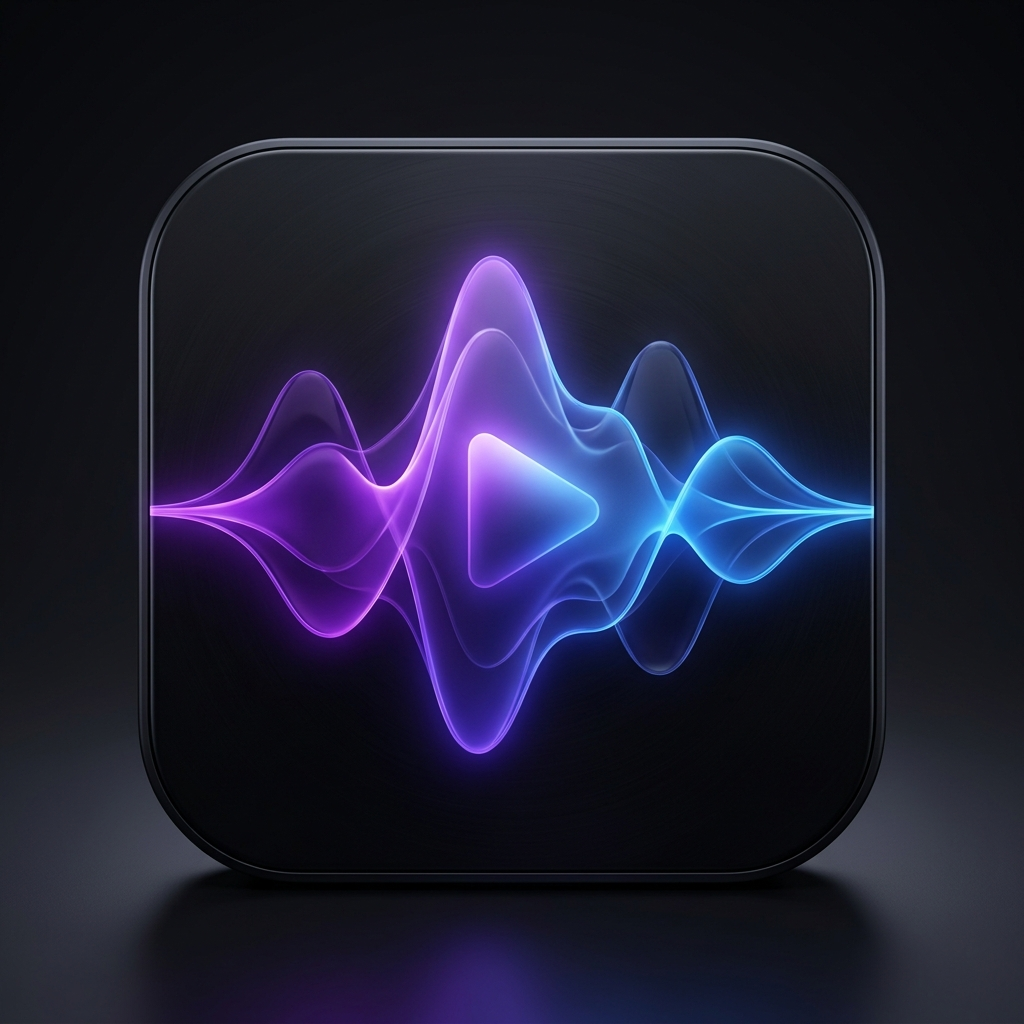
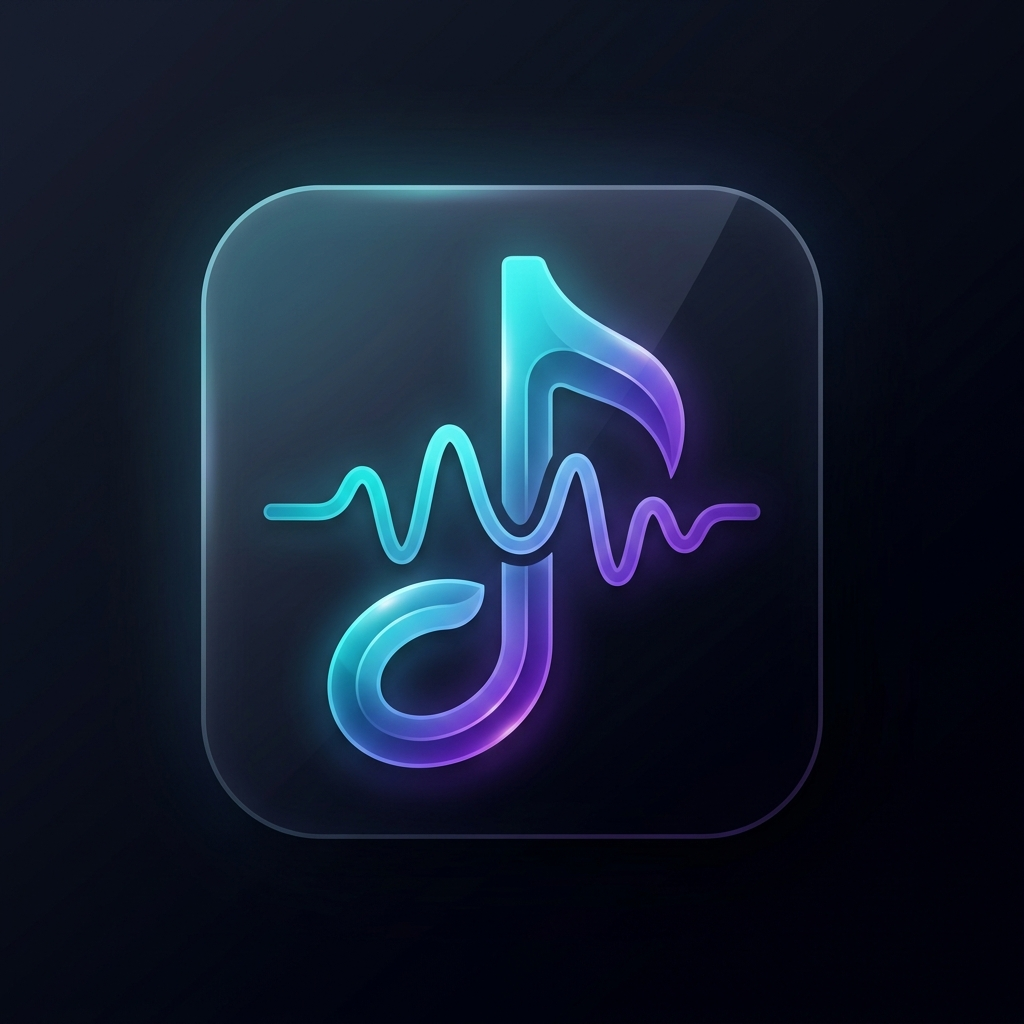
g

diff --git a/index.html b/index.html
@@ -5,25 +5,29 @@
     <meta name="viewport" content="width=device-width, initial-scale=1.0, maximum-scale=1.0, user-scalable=no, viewport-fit=cover" />
     <title>MuseVibe Studio - AI Music Creation Platform</title>
     <meta name="description" content="Transform your musical ideas into fully produced tracks. Describe your vision and let AI bring it to life with professional-quality music.">
-    <meta name="author" content="HarmonyAI" />
+    <meta name="author" content="MuseVibe" />
+
+    <!-- Favicon and Icons -->
+    <link rel="icon" type="image/png" href="/favicon.png?v=2" />
+    <link rel="icon" type="image/x-icon" href="/favicon.ico?v=2" />
+    <link rel="apple-touch-icon" href="/pwa-icon-192.png?v=2" />
 
     <!-- PWA meta tags -->
-    <meta name="theme-color" content="#7c3aed" />
+    <meta name="theme-color" content="#22d3ee" />
     <meta name="apple-mobile-web-app-capable" content="yes" />
     <meta name="apple-mobile-web-app-status-bar-style" content="black-translucent" />
     <meta name="apple-mobile-web-app-title" content="MuseVibe" />
-    <link rel="apple-touch-icon" href="/pwa-icon-192.png" />
-    <link rel="manifest" href="/manifest.webmanifest" />
+    <link rel="manifest" href="/manifest.json" />
 
     <meta property="og:type" content="website" />
-    <meta property="og:image" content="https://pub-bb2e103a32db4e198524a2e9ed8f35b4.r2.dev/1a863c17-41db-4822-8922-bbabcc821071/id-preview-c5e7064a--d9197304-da4a-4c12-bbe7-472ea62b912d.lovable.app-1769842545029.png">
-    <meta name="twitter:card" content="summary_large_image" />
-    <meta name="twitter:site" content="@HarmonyAI" />
-    <meta name="twitter:image" content="https://pub-bb2e103a32db4e198524a2e9ed8f35b4.r2.dev/1a863c17-41db-4822-8922-bbabcc821071/id-preview-c5e7064a--d9197304-da4a-4c12-bbe7-472ea62b912d.lovable.app-1769842545029.png">
     <meta property="og:title" content="MuseVibe Studio - AI Music Creation Platform">
-    <meta name="twitter:title" content="MuseVibe Studio - AI Music Creation Platform">
     <meta property="og:description" content="Transform your musical ideas into fully produced tracks. Describe your vision and let AI bring it to life with professional-quality music.">
+    <meta property="og:image" content="/pwa-icon-512.png">
+    
+    <meta name="twitter:card" content="summary_large_image" />
+    <meta name="twitter:title" content="MuseVibe Studio - AI Music Creation Platform">
     <meta name="twitter:description" content="Transform your musical ideas into fully produced tracks. Describe your vision and let AI bring it to life with professional-quality music.">
+    <meta name="twitter:image" content="/pwa-icon-512.png">
   </head>
   <body>
     <div id="root"></div>

diff --git a/vite.config.ts b/vite.config.ts
@@ -18,7 +18,7 @@ export default defineConfig(({ mode }) => ({
     mode === "development" && componentTagger(),
     VitePWA({
       registerType: "autoUpdate",
-      includeAssets: ["favicon.ico", "pwa-icon-192.png", "pwa-icon-512.png"],
+      includeAssets: ["favicon.ico", "favicon.png", "pwa-icon-192.png", "pwa-icon-512.png"],
       workbox: {
         globPatterns: ["**/*.{js,css,html,ico,png,svg,woff2}"],
         navigateFallbackDenylist: [/^\/~oauth/],
@@ -31,7 +31,7 @@ export default defineConfig(({ mode }) => ({
         name: "MuseVibe Studio",
         short_name: "MuseVibe",
         description: "AI-Powered Music Creation Platform",
-        theme_color: "#7c3aed",
+        theme_color: "#22d3ee",
         background_color: "#0a0a0f",
         display: "standalone",
         orientation: "portrait",